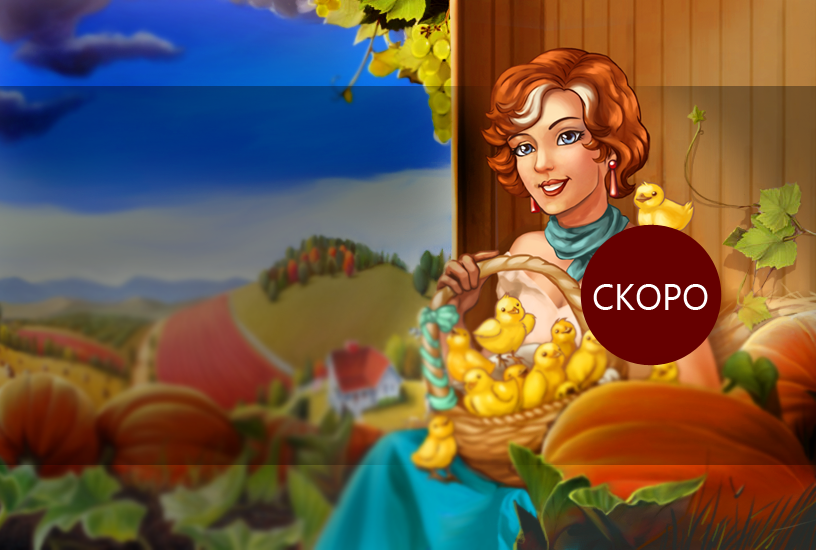
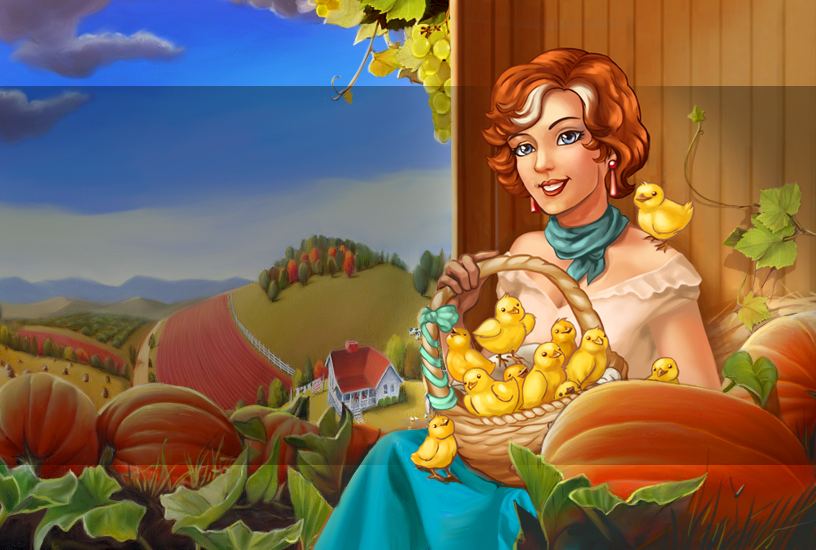
Jain Farm fixes

diff --git a/Delegates/HomeItem.qml b/Delegates/HomeItem.qml
@@ -152,20 +152,14 @@ Delegates.FlowViewDelegate {
                 }
 
                 // HACK Отключаем ферму от запуска
-                if (model.serviceId != "300011010000000000") {
-                    var status = model.status;
-                    if (status !== "Downloading" && status !== "Started") {
-                        App.downloadButtonStart(model.serviceId);
-                    }
+                var status = model.status;
+                if (status !== "Downloading" && status !== "Started") {
+                    App.downloadButtonStart(model.serviceId);
                 }
 
                 mouseClicked(model,false);
             } else if (buttonDetailsObj.x >= 0 && buttonDetailsObj.x <= buttonDetails.width && buttonDetailsObj.y >= 0 && buttonDetailsObj.y <= buttonDetails.height) { // кнопка Details
-                 if (model.serviceId != "300011010000000000") {
-                    mouseClicked(model,true);
-                 } else {
-                    mouseClicked(model,false);
-                 }
+                mouseClicked(model,true);
             } else {
                 mouseClicked(model,false);
             }
@@ -188,7 +182,6 @@ Delegates.FlowViewDelegate {
 
             Item {
                 anchors.fill: parent
-                visible: model.serviceId != "300011010000000000"
 
                 Rectangle {
                     color: "#ffffff"
@@ -222,7 +215,6 @@ Delegates.FlowViewDelegate {
 
             Item {
                 anchors.fill: parent
-                visible: model.serviceId != "300011010000000000"
 
                 Rectangle {
                     color: "#ffffff"

diff --git a/Pages/Game.qml b/Pages/Game.qml
@@ -493,7 +493,7 @@ Rectangle {
                     Elements.ButtonBig {
                         id: singleBigButton
 
-                        visible: !!currentItem && !d._maintenance && currentItem.serviceId != "300011010000000000"
+                        visible: !!currentItem && !d._maintenance
 
                         anchors { right: parent.right; rightMargin: 30; verticalCenter: parent.verticalCenter }
 
@@ -535,22 +535,6 @@ Rectangle {
                                 }
                             }
                         }
-                    }
-
-                    // Hack Убираем ферму для запуска
-                    Elements.ButtonBig {
-                        visible: !!currentItem && !d._maintenance && currentItem.serviceId == "300011010000000000"
-
-                        anchors { right: parent.right; rightMargin: 30; verticalCenter: parent.verticalCenter }
-
-                        buttonText: qsTr("BUTTON_PLAY_DEFAULT_STATE")
-                        buttonPauseText: qsTr("BUTTON_PLAY_ON_PAUSE_STATE")
-                        buttonDownloadText: qsTr("BUTTON_PLAY_DOWNLOADING_NOW_STATE")
-                        buttonErrorText: qsTr("BUTTON_PLAY_ERROR_STATE")
-                        buttonDownloadedText: qsTr("BUTTON_PLAY_DOWNLOADED_AND_READY_STATE")
-
-                        isMouseAreaAccepted: false
-                        isStarted: true
                     }
 
                     Text {

diff --git a/qGNA_Main.qml b/qGNA_Main.qml
@@ -207,7 +207,7 @@ Item {
             onUpdateFinished: {
                 var serviceId, item;
 
-                ping.start();
+                //ping.start();
 
                 qGNA_main.lastState = "HomePage";
 
@@ -528,12 +528,12 @@ Item {
             id: guide
         }
 
-        Ping.Ping {
-            id: ping
+//        Ping.Ping {
+//            id: ping
 
-            onBackgroundMousePositionChanged: onWindowPositionChanged(mouseX,mouseY);
-            onBackgroundMousePressed: onWindowPressed(mouseX,mouseY);
-        }
+//            onBackgroundMousePositionChanged: onWindowPositionChanged(mouseX,mouseY);
+//            onBackgroundMousePressed: onWindowPressed(mouseX,mouseY);
+//        }
 
         News.News {}
 
@@ -541,7 +541,7 @@ Item {
         }
 
         Blocks.Tray {
-            isFullMenu: mainAuthModule.isAuthed && !ping.mustBeShown
+            isFullMenu: mainAuthModule.isAuthed // && !ping.mustBeShown
 
             function quitTrigger() {
                 GoogleAnalytics.trackEvent('/Tray', 'Application', 'Quit');
@@ -651,7 +651,7 @@ Item {
                 }
 
                 var item = Core.serviceItemByServiceId(service);
-                if (!gameExecuteTime.startTime || !item || item.serviceId == "300007010000000000") {
+                if (!gameExecuteTime.startTime || !item || item.gameType == "browser") {
                     return;
                 }
 

diff --git a/Blocks/NewsBlock.qml b/Blocks/NewsBlock.qml
@@ -66,7 +66,7 @@ Item {
     Connections {
         target: Core.gamesListModel
         onCurrentGameItemChanged: {
-            if (!!Core.currentGame() && Core.currentGame().serviceId == "300011010000000000") {
+            if (!!Core.currentGame()) {
                newsBlock.state = "AboutGameTab";
                return;
             }
@@ -98,7 +98,7 @@ Item {
             Elements.IconButton {
                 id: newsTab
 
-                visible: Core.currentGame() != undefined && Core.currentGame().serviceId != "300011010000000000"
+                visible: Core.currentGame() != undefined
                 text: qsTr("TAB_NEWS")
                 source: newsTab.isActive ? installPath + "images/menu/news_active.png" : installPath + "images/menu/news.png"
                 onClicked: {
@@ -135,7 +135,7 @@ Item {
             }
 
             Elements.IconButton {
-                visible: Core.currentGame() != undefined && Core.currentGame().serviceId != "300011010000000000"
+                visible: Core.currentGame() != undefined
                 text: qsTr('SUPPORT_ICON_BUTTON')
                 source: installPath + "images/menu/help.png"
                 onClicked: SupportHelper.show(newsBlock, Core.currentGame() ? Core.currentGame().gaName : '');
